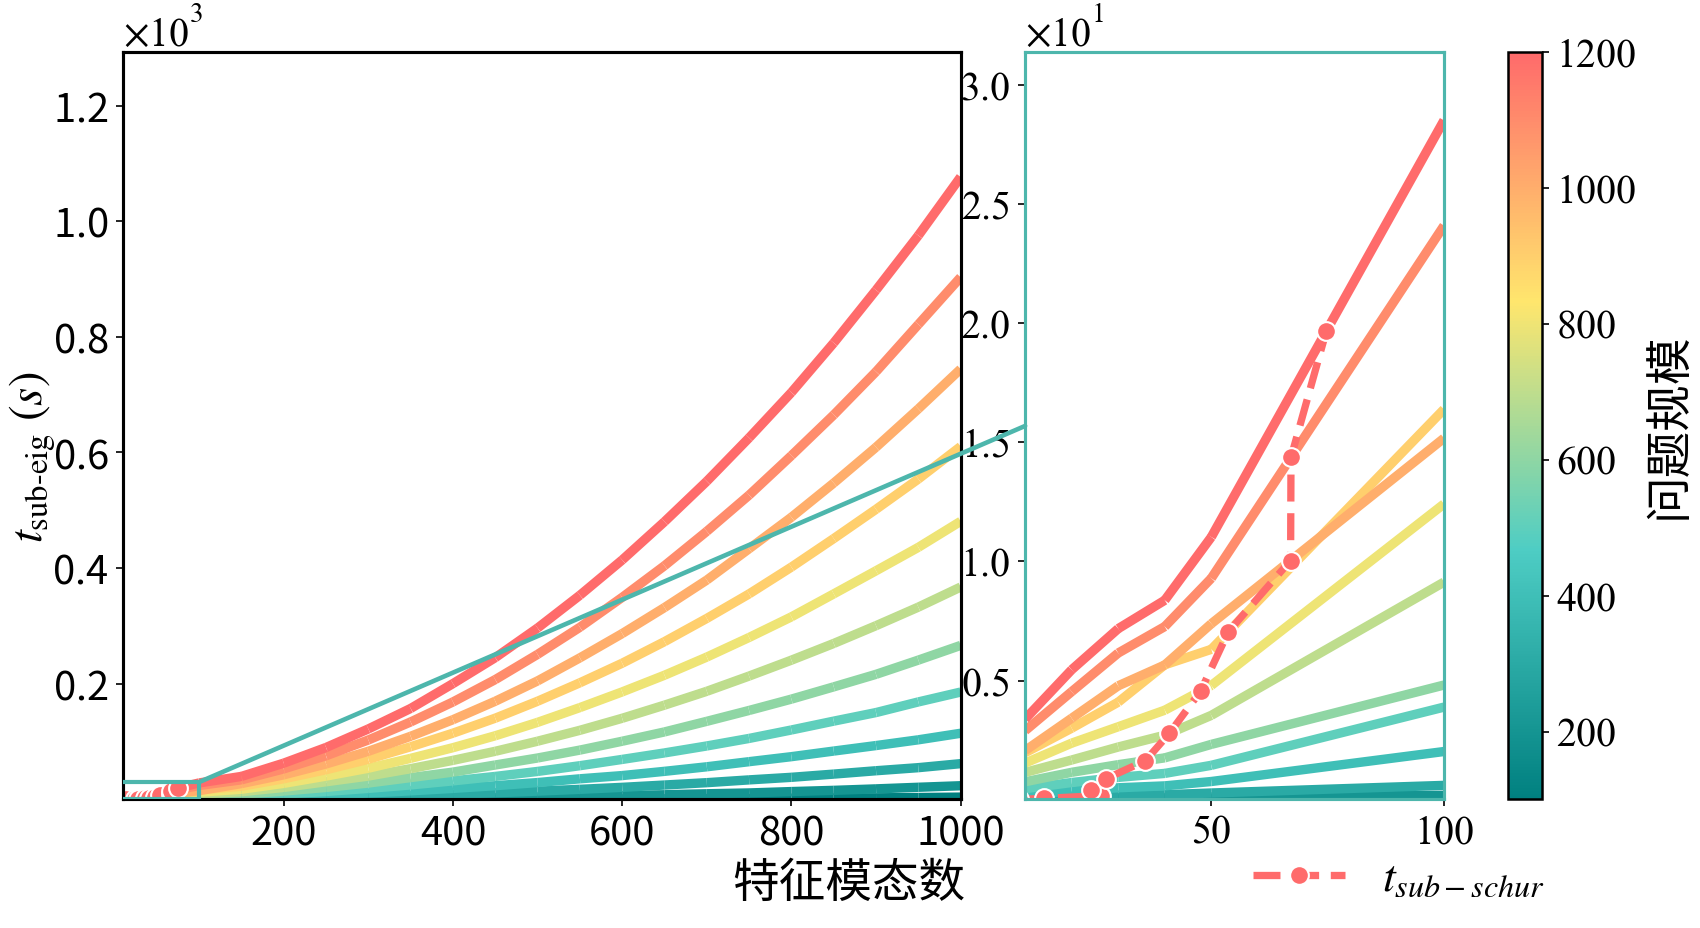
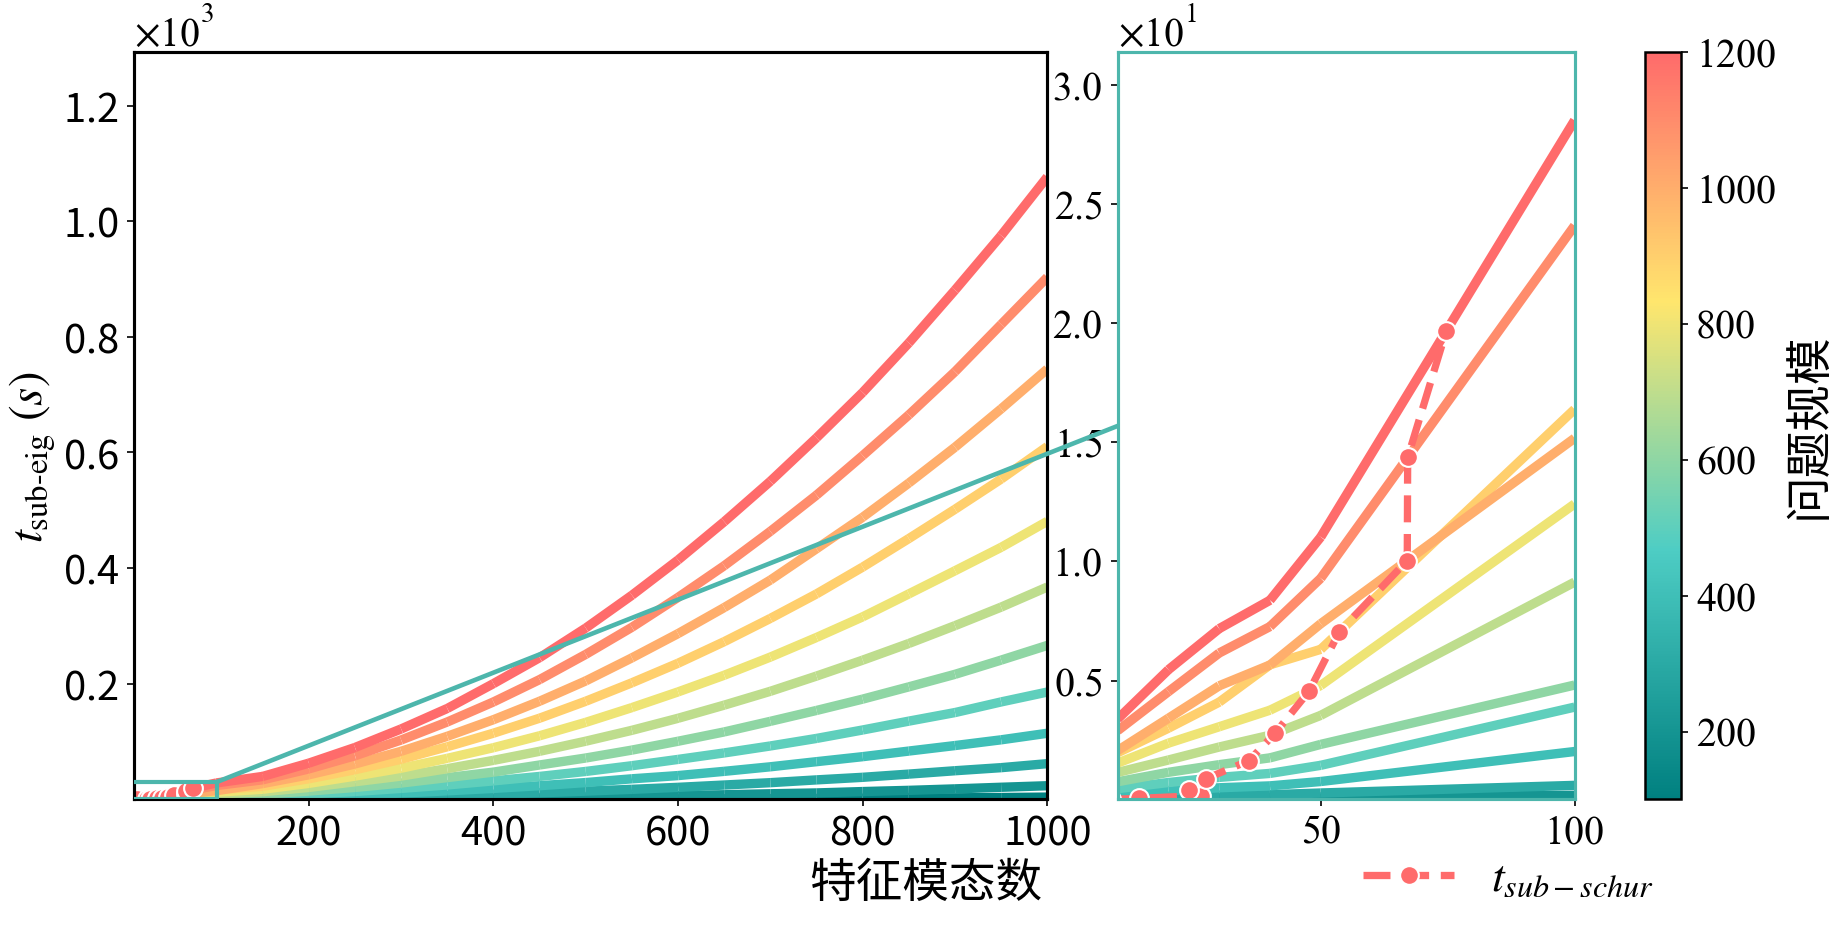
fix(paper3): fix last remaining (11,6) figsize in plot_comp.py
Final comprehensive audit of all 13 thesis-local Chinese scripts:

figsize: ALL CLEAN -- every script now uses standard sizing
  (12,6) single / (14,6)/(14,7) multi-panel / (14,8) 2x1 subplots

font config: ALL using scaled_fontsize() or thesis_figure_config
  Minor hardcoded sizes (fontsize=10,12,16,20) are limited to
  bar value labels, row titles, and suptitles -- all acceptable.

This was the last missed script: substructure_analysis/plot_comp.py
had (11,6) for the schur_vs_eig_timing_curves plot used in Figure 4.2.
The primal-dual_modes copy was fixed but the thesis-local Chinese
copy was never updated in any previous fix round.

Ultraworked with [Sisyphus](https://github.com/code-yeongyu/oh-my-openagent)

diff --git a/body/graduate/paper3/figures/substructure_analysis/plot_comp.py b/body/graduate/paper3/figures/substructure_analysis/plot_comp.py
@@ -174,7 +174,7 @@ def plot_equivalence_bar_chart(df_eig, df_schur):
 def plot_timing_curves(df_eig, df_schur, legend_cfg=None):
     from matplotlib.gridspec import GridSpec
 
-    fig = plt.figure(figsize=(11, 6))
+    fig = plt.figure(figsize=(12, 6))
     gs = GridSpec(1, 3, width_ratios=[2, 1, 0.08], wspace=0.15)
     ax = fig.add_subplot(gs[0, 0])
     ax_zoom = fig.add_subplot(gs[0, 1], sharey=None)
